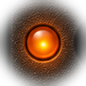
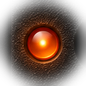
Kit slider thumbs in warm orange plastic, lighter than the brass (GPT, user 11/24). Build 23

diff --git a/cameragr/UI/MaintenanceKit.swift b/cameragr/UI/MaintenanceKit.swift
@@ -14,7 +14,8 @@ enum KitArt {
     static let board = UIImage(named: "kit_board.jpg") ?? UIImage()
     /// Each row's slider thumb and its lamp lit warm orange, cut from GPT's
     /// drawing of this very plate with the thumbs in its slots
-    /// (design/kit/switch/plate_slider_on.png), so they fit the slots (user 11/24).
+    /// (design/kit/switch/plate_slider_orange.png: orange plastic, user 11/24),
+    /// so they fit the slots.
     static let thumb = (0..<3).map { UIImage(named: "kit_thumb_\($0)") ?? UIImage() }
     static let lampOn = (0..<3).map { UIImage(named: "kit_lamp_on_\($0)") ?? UIImage() }
     static let ink = Color(red: 0.2, green: 0.17, blue: 0.13)
@@ -50,9 +51,9 @@ struct KitSwitchPage: View {
     /// switch channel) and the certificate's printed boxes.
     static let rowY: [CGFloat] = [100, 248, 396]
     /// Each row's thumb at the slot's right end (on), and its lit lamp.
-    static let thumbOn: [CGRect] = [CGRect(x: 536, y: 123, width: 90, height: 57),
-                                    CGRect(x: 536, y: 268, width: 90, height: 57),
-                                    CGRect(x: 536, y: 411, width: 90, height: 57)]
+    static let thumbOn: [CGRect] = [CGRect(x: 536, y: 124, width: 90, height: 57),
+                                    CGRect(x: 536, y: 270, width: 90, height: 57),
+                                    CGRect(x: 536, y: 413, width: 90, height: 57)]
     /// How far the thumb moves to the slot's left end (off).
     static let thumbTravel: CGFloat = 49
     static let lampOn: [CGRect] = [CGRect(x: 412, y: 108, width: 86, height: 86),
